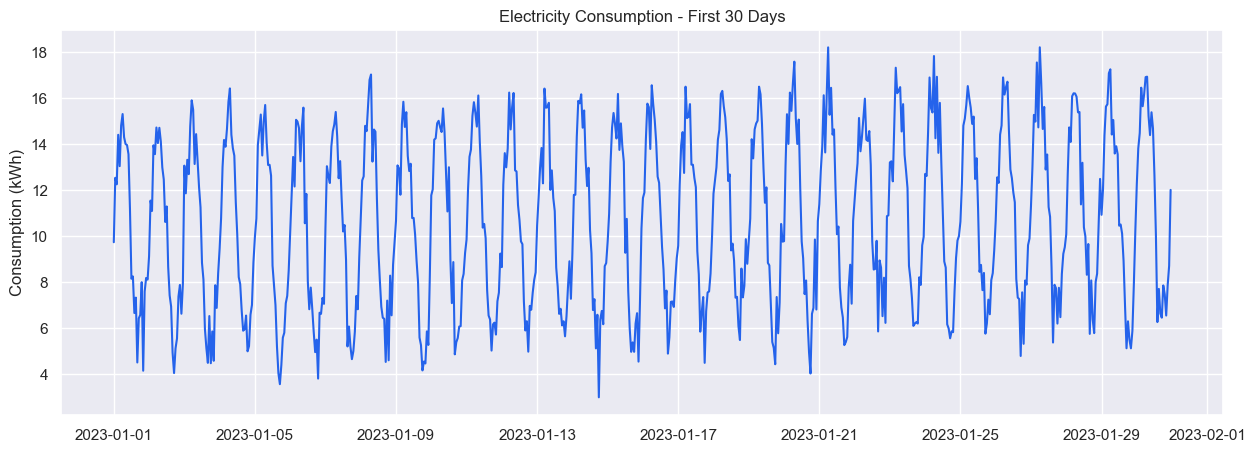
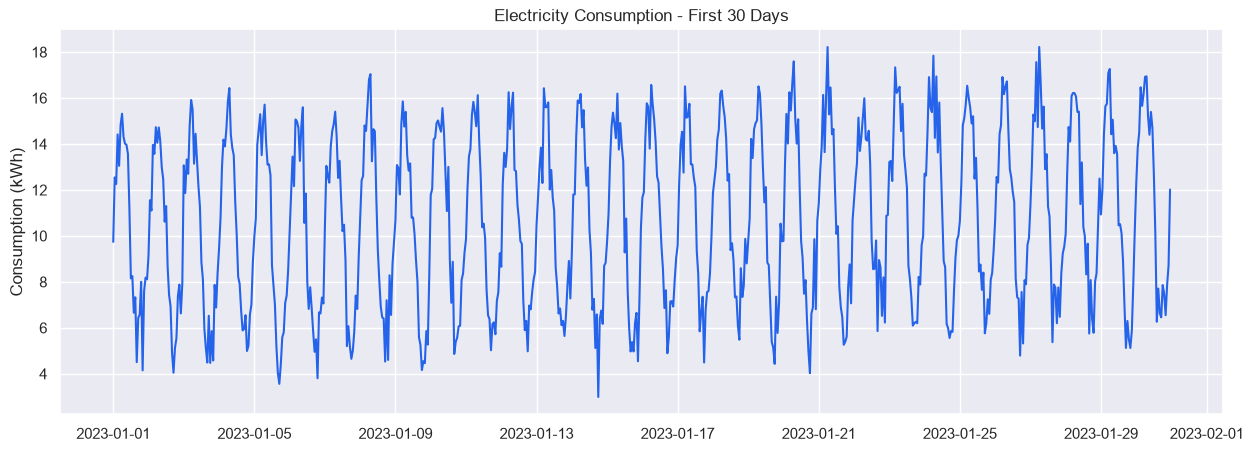
Add all 4 EDA images

diff --git a/ml-service/generate_eda_images.py b/ml-service/generate_eda_images.py
@@ -19,7 +19,8 @@ def main():
     plt.ylabel('Consumption (kWh)')
     plt.savefig("eda_images/1_consumption_trend.png", bbox_inches='tight')
     plt.close()
-    
+    print("✅ Graph 1 done")
+
     # 2. Hourly Bar Chart
     df['hour'] = df.index.hour
     hourly_avg = df.groupby('hour')['consumption_kwh'].mean()
@@ -30,25 +31,34 @@ def main():
     plt.ylabel('Average kWh')
     plt.savefig("eda_images/2_hourly_usage.png", bbox_inches='tight')
     plt.close()
+    print("✅ Graph 2 done")
 
-    # 3. Heatmap
-    numeric_df = df.select_dtypes(include=['float64', 'int64']).drop(columns=['hour'])
+    # 3. Heatmap (Safe Check)
+    numeric_df = df.select_dtypes(include=['float64', 'int64'])
+    if 'hour' in numeric_df.columns:
+        numeric_df = numeric_df.drop(columns=['hour'])
+        
     plt.figure(figsize=(8, 6))
     sns.heatmap(numeric_df.corr(), annot=True, cmap='coolwarm', fmt=".2f", linewidths=0.5)
     plt.title('Correlation Matrix')
     plt.savefig("eda_images/3_correlation_heatmap.png", bbox_inches='tight')
     plt.close()
+    print("✅ Graph 3 done")
 
-    # 4. Scatter Plot
-    plt.figure(figsize=(10, 5))
-    sns.scatterplot(x=df['temperature_c'], y=df['consumption_kwh'], alpha=0.3, color='#ec4899')
-    plt.title('Temperature vs. Consumption')
-    plt.xlabel('Temperature (°C)')
-    plt.ylabel('Consumption (kWh)')
-    plt.savefig("eda_images/4_temp_vs_consumption.png", bbox_inches='tight')
-    plt.close()
+    # 4. Scatter Plot (Safe Check)
+    if 'temperature_c' in df.columns:
+        plt.figure(figsize=(10, 5))
+        sns.scatterplot(x=df['temperature_c'], y=df['consumption_kwh'], alpha=0.3, color='#ec4899')
+        plt.title('Temperature vs. Consumption')
+        plt.xlabel('Temperature (°C)')
+        plt.ylabel('Consumption (kWh)')
+        plt.savefig("eda_images/4_temp_vs_consumption.png", bbox_inches='tight')
+        plt.close()
+        print("✅ Graph 4 done")
+    else:
+        print("❌ Could not find 'temperature_c' column for Graph 4. Skipping.")
 
-    print("✅ All 4 images saved successfully to the 'ml-service/eda_images' folder!")
+    print("✅ All available images saved to 'ml-service/eda_images'!")
 
 if __name__ == "__main__":
     main()
